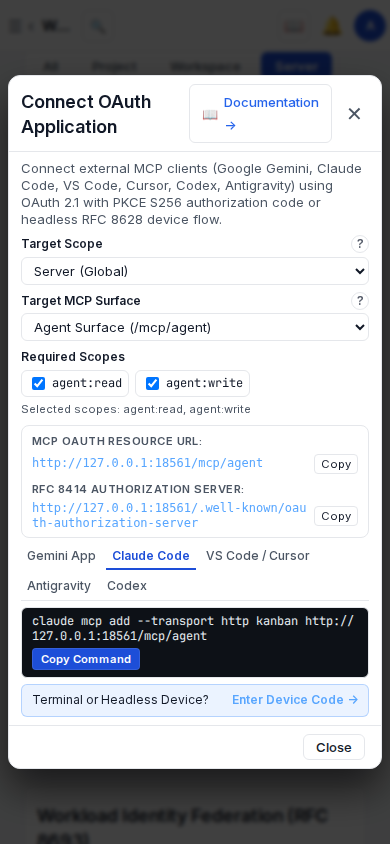
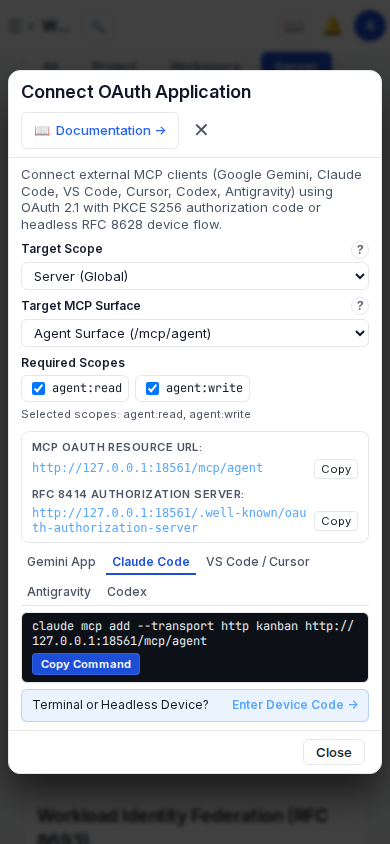
fix(settings): address UI specialist feedback on ConnectOAuthAppModal help hints (KAN-518)

diff --git a/kanban/web/src/features/settings/__tests__/ConnectOAuthAppModal.test.tsx b/kanban/web/src/features/settings/__tests__/ConnectOAuthAppModal.test.tsx
@@ -810,5 +810,31 @@ describe('ConnectOAuthAppModal (KAN-28)', () => {
 
       document.documentElement.removeAttribute('data-theme');
     });
+
+    it('verifies header actions styling and responsive wrap rules in ConnectOAuthAppModal.css', async () => {
+      const fs = await import('node:fs');
+      const path = await import('node:path');
+      const cssPath = path.resolve(__dirname, '../ConnectOAuthAppModal.css');
+      const cssContent = fs.readFileSync(cssPath, 'utf-8');
+
+      expect(cssContent).toContain('.kb-connect-oauth-header-actions');
+      expect(cssContent).toContain('white-space: nowrap;');
+      expect(cssContent).toContain('flex-wrap: wrap;');
+
+      render(
+        <MemoryRouter>
+          <ConnectOAuthAppModal onClose={vi.fn()} />
+        </MemoryRouter>,
+      );
+
+      await act(async () => {
+        await Promise.resolve();
+      });
+
+      const headerActions = screen.getByTestId('connect-oauth-doc-link').parentElement;
+      expect(headerActions).toBeDefined();
+      expect(headerActions?.className).toBe('kb-connect-oauth-header-actions');
+      expect(headerActions?.getAttribute('style')).toBeNull();
+    });
   });
 });

diff --git a/kanban/web/src/features/settings/ConnectOAuthAppModal.tsx b/kanban/web/src/features/settings/ConnectOAuthAppModal.tsx
@@ -238,7 +238,7 @@ ${resourceUrl}
           <h2 id="connect-oauth-modal-title" className="kb-connect-oauth-title">
             Connect OAuth Application
           </h2>
-          <div className="kb-connect-oauth-header-actions" style={{ display: 'flex', alignItems: 'center', gap: '8px' }}>
+          <div className="kb-connect-oauth-header-actions">
             <StudioDocLink
               href="/docs/three-surface-mcp-server-architecture#oauth-21--pkce"
               title="MCP OAuth 2.1 and PKCE Documentation"

diff --git a/kanban/web/src/features/settings/ConnectOAuthAppModal.css b/kanban/web/src/features/settings/ConnectOAuthAppModal.css
@@ -32,6 +32,18 @@
   display: flex;
   align-items: center;
   justify-content: space-between;
+  gap: 8px;
+}
+
+.kb-connect-oauth-header-actions {
+  display: flex;
+  align-items: center;
+  gap: 8px;
+  flex-shrink: 0;
+}
+
+.kb-connect-oauth-header-actions .kb-studio-doc-link {
+  white-space: nowrap;
 }
 
 .kb-connect-oauth-title {
@@ -344,6 +356,7 @@
 
   .kb-connect-oauth-header {
     padding: 8px 12px;
+    flex-wrap: wrap;
   }
 
   .kb-connect-oauth-body {
